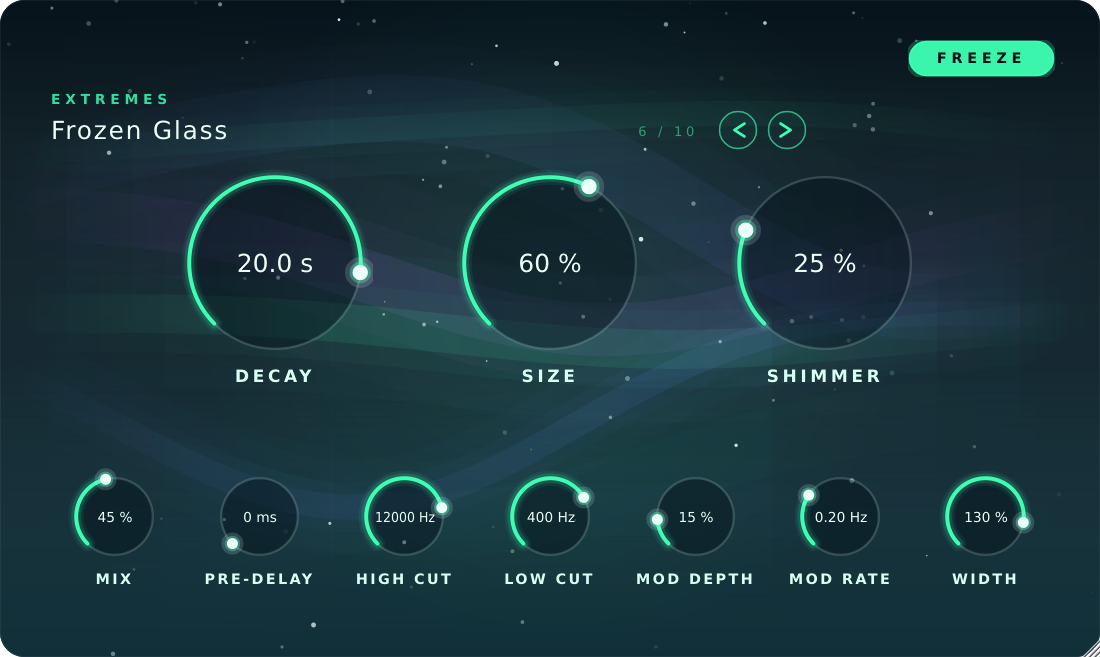
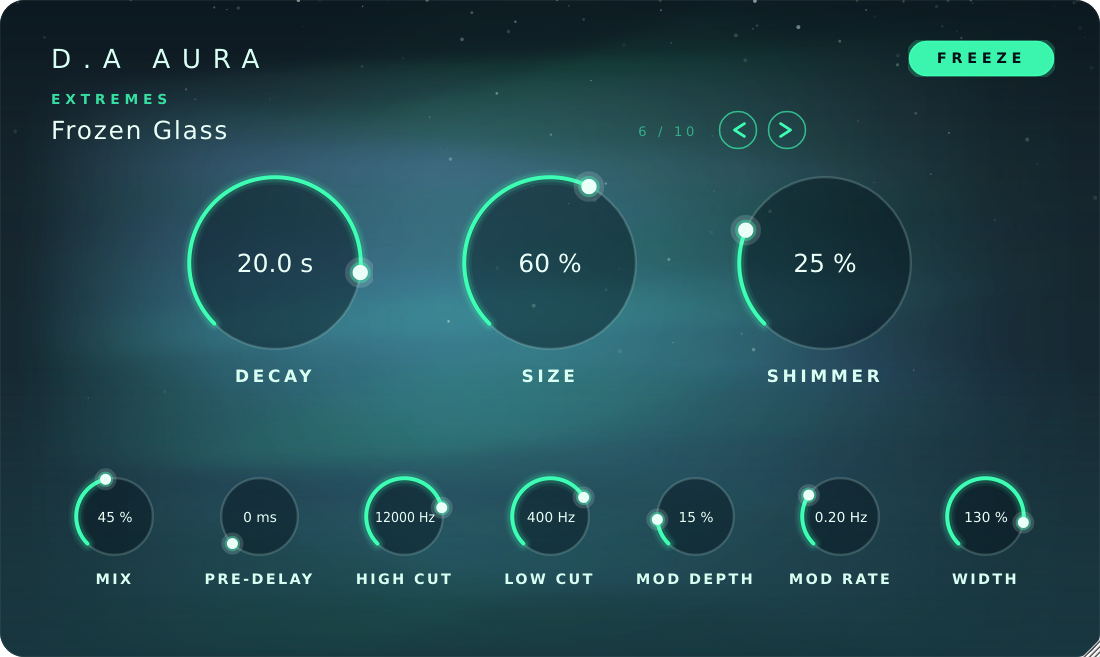
Bring back the product name over the aurora and make the aurora the design's own soft light

diff --git a/Source/PluginEditor.cpp b/Source/PluginEditor.cpp
@@ -139,12 +139,12 @@ void AuroraLookAndFeel::drawButtonText (juce::Graphics& g, juce::TextButton& but
 //==============================================================================
 // The aurora behind the knobs.
 //
-// At rest the picture is the design's own: a dark field with faint ribbons and a few stars.
-// When the plug-in carries a signal the whole field answers it (see Reverb::Life): the level
-// lifts the ribbons and makes them travel, the sixteen bands of the spectrum set the stars'
-// brightness and drift from the low ones on the left to the high ones on the right, and every
-// onset that the signal's envelope reports sends a ring of light outward from the middle.
-// The motion is scaled by the "aurora" setting of the window, so it can be set to still.
+// At rest the picture is the design's own: a dark field with soft ribbons of green and blue
+// light lying across the lower half, a few stars above them. When the plug-in carries a signal
+// the whole field answers it (see Reverb::Life): the level lifts the ribbons and makes them
+// travel, the sixteen bands of the spectrum set the stars' brightness and drift from the low
+// ones on the left to the high ones on the right, and every onset that the signal's envelope
+// reports sends a ring of light outward from the middle.
 AuroraField::AuroraField()
 {
     setInterceptsMouseClicks (false, false);
@@ -153,31 +153,47 @@ AuroraField::AuroraField()
 
     using namespace aurora_colours;
 
-    const juce::Colour palette[] = { green, blue, purple, green, blue };
+    // The ribbons are the design's own light: wide, soft, and living in the lower part of the
+    // window (the top stays dark, which is what makes the knobs read).
+    struct Shape { float height, tilt, amplitude, thickness, alpha; };
+    const Shape shapes[] =
+    {
+        //  height  tilt   amp  thick  alpha
+        {   0.30f, -0.16f, 14.0f, 132.0f, 0.30f },   // the wide green band across the middle
+        {   0.42f,  0.10f, 18.0f, 104.0f, 0.24f },   // and the blue one that follows it
+        {   0.58f, -0.07f, 12.0f,  76.0f, 0.21f },
+        {   0.74f,  0.05f, 16.0f, 112.0f, 0.22f },
+        {   0.20f, -0.03f,  9.0f,  54.0f, 0.14f },   // a faint one higher up
+        {   0.90f,  0.02f, 20.0f,  92.0f, 0.16f },
+        {   0.50f,  0.03f, 10.0f,  44.0f, 0.12f },
+    };
+
+    const juce::Colour palette[] = { green, blue, green, blue, purple, green, blue };
+    juce::Random random (0x0a17a);
 
     for (size_t i = 0; i < ribbons.size(); ++i)
     {
         auto& r = ribbons[i];
-        const float t = (float) i / (float) (ribbons.size() - 1);
+        const auto& shape = shapes[i % (sizeof (shapes) / sizeof (shapes[0]))];
 
-        r.phase     = t * 5.3f + 0.7f;
-        r.speed     = 0.05f + 0.03f * (float) ((i * 7) % 5);
-        r.height    = 0.20f + 0.60f * t;
-        r.thickness = 18.0f + 30.0f * (float) ((i * 3) % 4) * 0.33f;
-        r.amp       = 10.0f + 22.0f * (float) ((i * 5) % 3);
-        r.colour    = palette[i % 5];
-        r.alpha     = 0.05f + 0.035f * t;
+        r.phase     = random.nextFloat() * juce::MathConstants<float>::twoPi;
+        r.speed     = 0.05f + 0.04f * random.nextFloat();
+        r.height    = shape.height;
+        r.thickness = shape.thickness;
+        r.amp       = shape.amplitude;
+        r.tilt      = shape.tilt;
+        r.colour    = palette[i % (sizeof (palette) / sizeof (palette[0]))];
+        r.alpha     = shape.alpha;
+
     }
-
-    juce::Random random (0x0a17a);
 
     for (size_t i = 0; i < stars.size(); ++i)
     {
         auto& s = stars[i];
         s.x       = random.nextFloat();
-        s.y       = std::pow (random.nextFloat(), 1.7f);      // (denser towards the top)
-        s.size    = 0.6f + 1.8f * random.nextFloat();
-        s.alpha   = 0.10f + 0.55f * random.nextFloat();
+        s.y       = std::pow (random.nextFloat(), 2.4f) * 0.62f;   // (only in the dark top)
+        s.size    = 0.5f + 1.5f * random.nextFloat();
+        s.alpha   = 0.06f + 0.30f * random.nextFloat();
         s.twinkle = random.nextFloat() * juce::MathConstants<float>::twoPi;
         s.drift   = 0.4f + 0.9f * random.nextFloat();
     }
@@ -188,6 +204,9 @@ AuroraField::AuroraField()
         r.alpha  = 0.0f;
         r.width  = 1.0f;
     }
+
+    buildAuroraImage (restImage,  0.0f);
+    buildAuroraImage (awakeImage, 1.0f);
 }
 
 void AuroraField::moveTo (const aura::Reverb::Life& l, double secondsSinceLastMove)
@@ -225,7 +244,7 @@ void AuroraField::moveTo (const aura::Reverb::Life& l, double secondsSinceLastMo
         ring.alpha  *= std::pow (0.35f, dt);
     }
 
-    // the ribbons travel with the signal, and their light follows it
+    // the ribbons travel with the signal
     const float timeStep = dt * (0.25f + 2.2f * level) * motion;
     time += timeStep;
 
@@ -233,6 +252,67 @@ void AuroraField::moveTo (const aura::Reverb::Life& l, double secondsSinceLastMo
         r.phase += timeStep * r.speed * 6.0f;
 
     repaint();
+}
+
+// The aurora, drawn small and blurred once: the design's own soft light for the rest state,
+// and a fuller, wider one for a signal. Drawing it at a sixth of the size and stretching it
+// back up is what gives it the design's haze (and costs nothing at every refresh).
+void AuroraField::buildAuroraImage (juce::Image& target, float strength) const
+{
+    // the signal's picture is the same light, one phase further on: it is what travels
+    const float phaseShift = 2.4f * strength;
+
+    constexpr float s = 1.0f / 3.0f;
+    const int w = juce::roundToInt ((float) DAAuraAudioProcessorEditor::baseWidth * s);
+    const int h = juce::roundToInt ((float) DAAuraAudioProcessorEditor::baseHeight * s);
+
+    target = juce::Image (juce::Image::ARGB, w, h, true);
+    juce::Graphics g (target);
+
+    for (const auto& r : ribbons)
+    {
+        // the design's ribbons lie low and lean a little; a signal lifts them and widens them
+        const float height = juce::jlimit (0.05f, 0.98f,
+                                           r.height + 0.16f * strength * (0.5f - r.height));
+        const float alpha  = r.alpha * (0.92f + 0.10f * strength);
+        const float amp    = r.amp   * (0.55f + 1.9f * strength);
+
+        juce::Path path;
+
+        for (int x = -12; x <= w + 12; x += 6)
+        {
+            const float t = (float) x / (float) w;
+            const float y = height * (float) h
+                          + (t - 0.5f) * r.tilt * (float) h
+                          + std::sin (r.phase + phaseShift + t * 4.1f) * amp * s
+                          + std::sin (r.phase * 1.9f + phaseShift * 0.7f + t * 9.0f) * amp * 0.25f * s;
+
+            if (x <= -12)
+                path.startNewSubPath ((float) x, y);
+            else
+                path.lineTo ((float) x, y);
+        }
+
+        // its light fades in from the left and out before the right edge: a gradient across
+        // the whole picture, which is only ever used once (the picture is finished here)
+        juce::ColourGradient gradient (r.colour.withAlpha (0.0f), 0.0f, 0.0f,
+                                       r.colour.withAlpha (0.0f), (float) w, 0.0f, false);
+        gradient.addColour (0.02, r.colour.withAlpha (0.0f));
+        gradient.addColour (0.20, r.colour.withAlpha (alpha * 0.65f));
+        gradient.addColour (0.40, r.colour.withAlpha (alpha));
+        gradient.addColour (0.68, r.colour.withAlpha (alpha * 0.55f));
+        gradient.addColour (0.90, r.colour.withAlpha (alpha * 0.10f));
+        gradient.addColour (1.00, r.colour.withAlpha (0.0f));
+
+        g.setGradientFill (gradient);
+        g.strokePath (path, juce::PathStrokeType ((r.thickness * (1.0f + 0.30f * strength)) * s * 1.35f,
+                                                  juce::PathStrokeType::curved,
+                                                  juce::PathStrokeType::rounded));
+    }
+
+    juce::ImageConvolutionKernel blur (17);
+    blur.createGaussianBlur (2.6f);
+    blur.applyToImage (target, target, target.getBounds());
 }
 
 juce::ColourGradient AuroraField::backdrop()
@@ -272,66 +352,38 @@ void AuroraField::paint (juce::Graphics& g)
     g.setGradientFill (backdrop());
     g.fillAll();
 
-    // the ribbons: the design's three, plus the ones the signal brings out of the dark
-    const int lit = juce::jlimit (0, (int) ribbons.size() - 1, juce::roundToInt (1.0f + 5.0f * level));
+    // the aurora's own light: the design's rest picture, and the fuller one a signal brings,
+    // blended by the level (both are drawn small and stretched, so they stay soft)
+    g.setImageResamplingQuality (juce::Graphics::highResamplingQuality);
 
-    for (int i = 0; i < (int) ribbons.size(); ++i)
+    const float awake = juce::jlimit (0.0f, 1.0f, level * 1.15f);
+
+    if (restImage.isValid())
     {
-        auto& r = ribbons[(size_t) i];
-        const bool awake = i < lit;
-
-        if (! awake && r.alpha * 0.4f < 0.004f)
-            continue;
-
-        juce::Path path;
-        const float baseY = r.height * h;
-        const float step = w / 64.0f;
-        path.startNewSubPath (-step, baseY + std::sin (r.phase) * r.amp * (0.4f + level));
-
-        for (float x = 0.0f; x <= w + step; x += step)
-        {
-            const float t = x / juce::jmax (1.0f, w);
-            const float y = baseY
-                          + std::sin (r.phase + t * 5.4f) * r.amp * (0.4f + 1.6f * level)
-                          + std::sin (r.phase * 1.7f + t * 11.0f) * r.amp * 0.3f;
-            path.lineTo (x, y);
-        }
-
-        juce::ColourGradient gradient (r.colour.withAlpha (0.0f), 0.0f, 0.0f,
-                                       r.colour.withAlpha (0.0f), w, 0.0f, false);
-        const float glow = awake ? r.alpha * (0.45f + 1.0f * level + 0.30f * delayLevel) : r.alpha * 0.35f;
-        gradient.addColour (0.30, r.colour.withAlpha (glow));
-        gradient.addColour (0.70, r.colour.withAlpha (glow * 0.75f));
-
-        g.setGradientFill (gradient);
-
-        // three widths, each one dimmer than the one inside it: light, not a painted band
-        const float thickness = r.thickness * fieldScale * (1.0f + 0.35f * level);
-        for (const auto [width, share] : { std::pair<float, float> { 2.6f, 0.22f },
-                                           std::pair<float, float> { 1.4f, 0.38f },
-                                           std::pair<float, float> { 0.7f, 1.0f } })
-        {
-            g.setOpacity (share);
-            g.strokePath (path, juce::PathStrokeType (thickness * width,
-                                                      juce::PathStrokeType::curved,
-                                                      juce::PathStrokeType::rounded));
-        }
-
-        g.setOpacity (1.0f);
+        g.setOpacity (1.0f - 0.30f * awake);
+        g.drawImage (restImage, area, juce::RectanglePlacement::stretchToFit);
     }
+
+    if (awakeImage.isValid() && awake > 0.01f)
+    {
+        g.setOpacity (0.42f * awake);
+        g.drawImage (awakeImage, area, juce::RectanglePlacement::stretchToFit);
+    }
+
+    g.setOpacity (1.0f);
 
     // the light sits in the middle of the window and fades away towards its top and bottom,
     // so that the aurora is a glow behind the knobs and never a painted band across them
     {
-        juce::ColourGradient fade (bgTop.withAlpha (0.85f), 0.0f, 0.0f,
+        juce::ColourGradient fade (bgTop.withAlpha (0.55f), 0.0f, 0.0f,
                                    bgTop.withAlpha (0.0f), 0.0f, h * 0.42f, false);
-        fade.addColour (0.60, bgTop.withAlpha (0.10f));
+        fade.addColour (0.60, bgTop.withAlpha (0.06f));
         fade.addColour (1.0, bgTop.withAlpha (0.0f));
         g.setGradientFill (fade);
         g.fillRect (0.0f, 0.0f, w, h * 0.42f);
 
         juce::ColourGradient lower (bgBottom.withAlpha (0.0f), 0.0f, h * 0.55f,
-                                    bgBottom.withAlpha (0.80f), 0.0f, h, false);
+                                    bgBottom.withAlpha (0.55f), 0.0f, h, false);
         g.setGradientFill (lower);
         g.fillRect (0.0f, h * 0.55f, w, h * 0.45f);
     }
@@ -414,6 +466,14 @@ DAAuraAudioProcessorEditor::DAAuraAudioProcessorEditor (DAAuraAudioProcessor& p)
     freezeButton.setMouseCursor (juce::MouseCursor::PointingHandCursor);
     addAndMakeVisible (freezeButton);
     freezeAttachment = std::make_unique<ButtonAttachment> (proc.apvts, "freeze", freezeButton);
+
+    // the product's name, in front of the aurora (it used to be painted by the editor itself,
+    // which the field then covered)
+    title.setText ("D.A AURA", juce::dontSendNotification);
+    title.setJustificationType (juce::Justification::centredLeft);
+    title.setInterceptsMouseClicks (false, false);
+    title.setColour (juce::Label::textColourId, aurora_colours::text);
+    addAndMakeVisible (title);
 
     // the preset browser: the space, the preset, how far through the space it is, and the arrows
     const auto setUpLabel = [this] (juce::Label& label, float height, float kerning, bool bold)
@@ -547,11 +607,6 @@ void DAAuraAudioProcessorEditor::paint (juce::Graphics& g)
         g.fillAll();
     }
 
-    g.setColour (text);
-    g.setFont (makeFont (20.0f * scale, false, 0.38f));
-    g.drawText ("D.A AURA",
-                juce::Rectangle<float> (30.0f * scale, 22.0f * scale, 480.0f * scale, 32.0f * scale),
-                juce::Justification::centredLeft, false);
 }
 
 void DAAuraAudioProcessorEditor::resized()
@@ -567,6 +622,9 @@ void DAAuraAudioProcessorEditor::resized()
     {
         return r.transformedBy (juce::AffineTransform::scale (scale)).toNearestInt();
     };
+
+    title.setFont (makeFont (20.0f * scale, false, 0.38f));
+    title.setBounds (scaled ({ 30.0f, 22.0f, 480.0f, 32.0f }));
 
     presetSpace.setFont (makeFont (10.5f * scale, true, 0.30f));
     presetSpace.setBounds (scaled ({ 30.0f, 58.0f, 220.0f, 14.0f }));

diff --git a/Source/PluginEditor.h b/Source/PluginEditor.h
@@ -62,6 +62,7 @@ private:
         float height = 0.0f;      // its line through the middle, 0..1 of the height
         float thickness = 1.0f;
         float amp = 0.0f;         // how far it wanders
+        float tilt = 0.0f;        // how far it leans across the window
         juce::Colour colour;
         float alpha = 0.0f;
     };
@@ -81,12 +82,17 @@ private:
 
     juce::ColourGradient backdrop();
 
+    /** The whole aurora, drawn at a sixth of the window's size and blurred once.
+        `strength` 0 draws the design's rest picture, 1 the one a full signal brings. */
+    void buildAuroraImage (juce::Image& target, float strength) const;
+
     float fieldScale = 1.0f;
     float level = 0.0f, transient = 0.0f, delayLevel = 0.0f;
     float band[aura::Reverb::Life::numBands] {};
     float time = 0.0f;
 
     std::array<Ribbon, 7> ribbons;
+    juce::Image restImage, awakeImage;
     std::array<Star, 96> stars;
     std::array<Ring, 4> rings;
     int nextRing = 0;
@@ -130,6 +136,9 @@ private:
     DAAuraAudioProcessor& proc;
     AuroraLookAndFeel lookAndFeel;
     AuroraField field;
+
+    // the product's name, drawn over the aurora (a label, so that it sits in front of the field)
+    juce::Label  title;
 
     // the preset browser: the space, the preset's name, and the arrows that step through it
     juce::Label  presetSpace;
